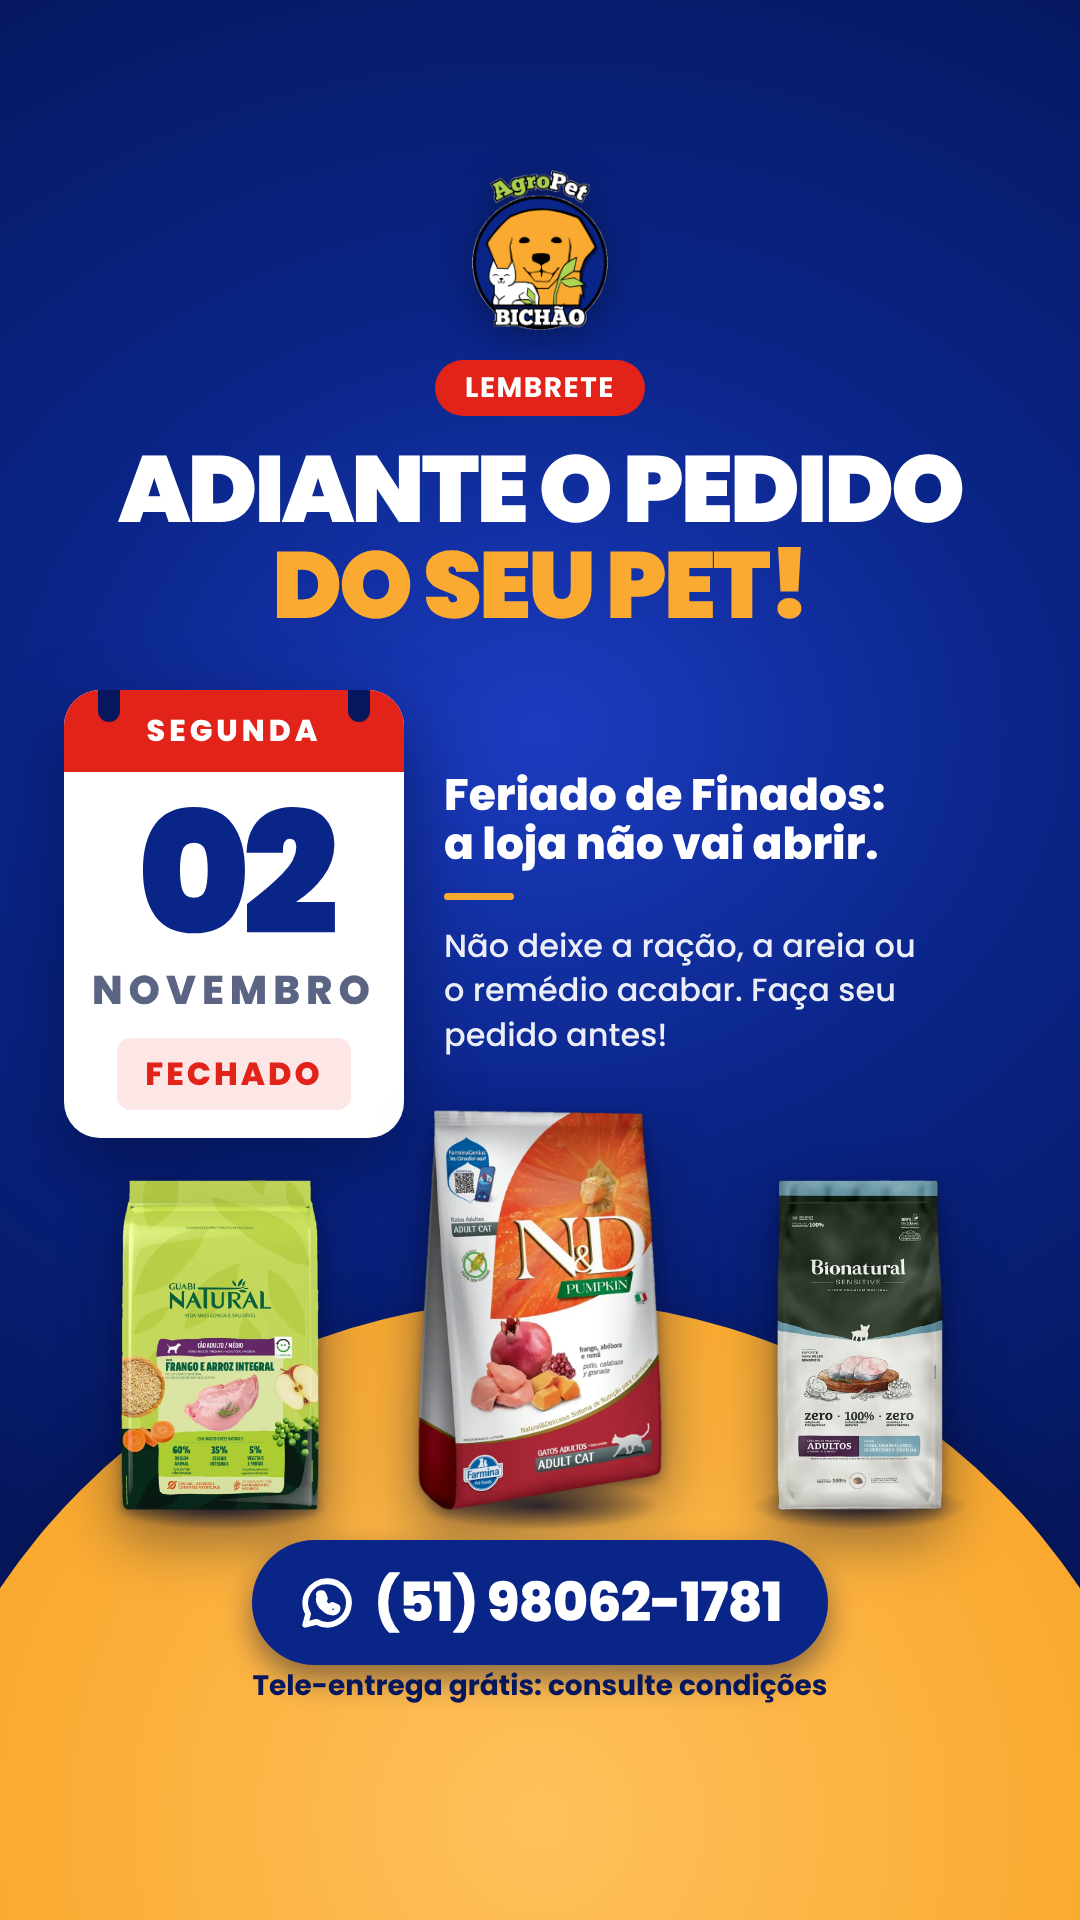
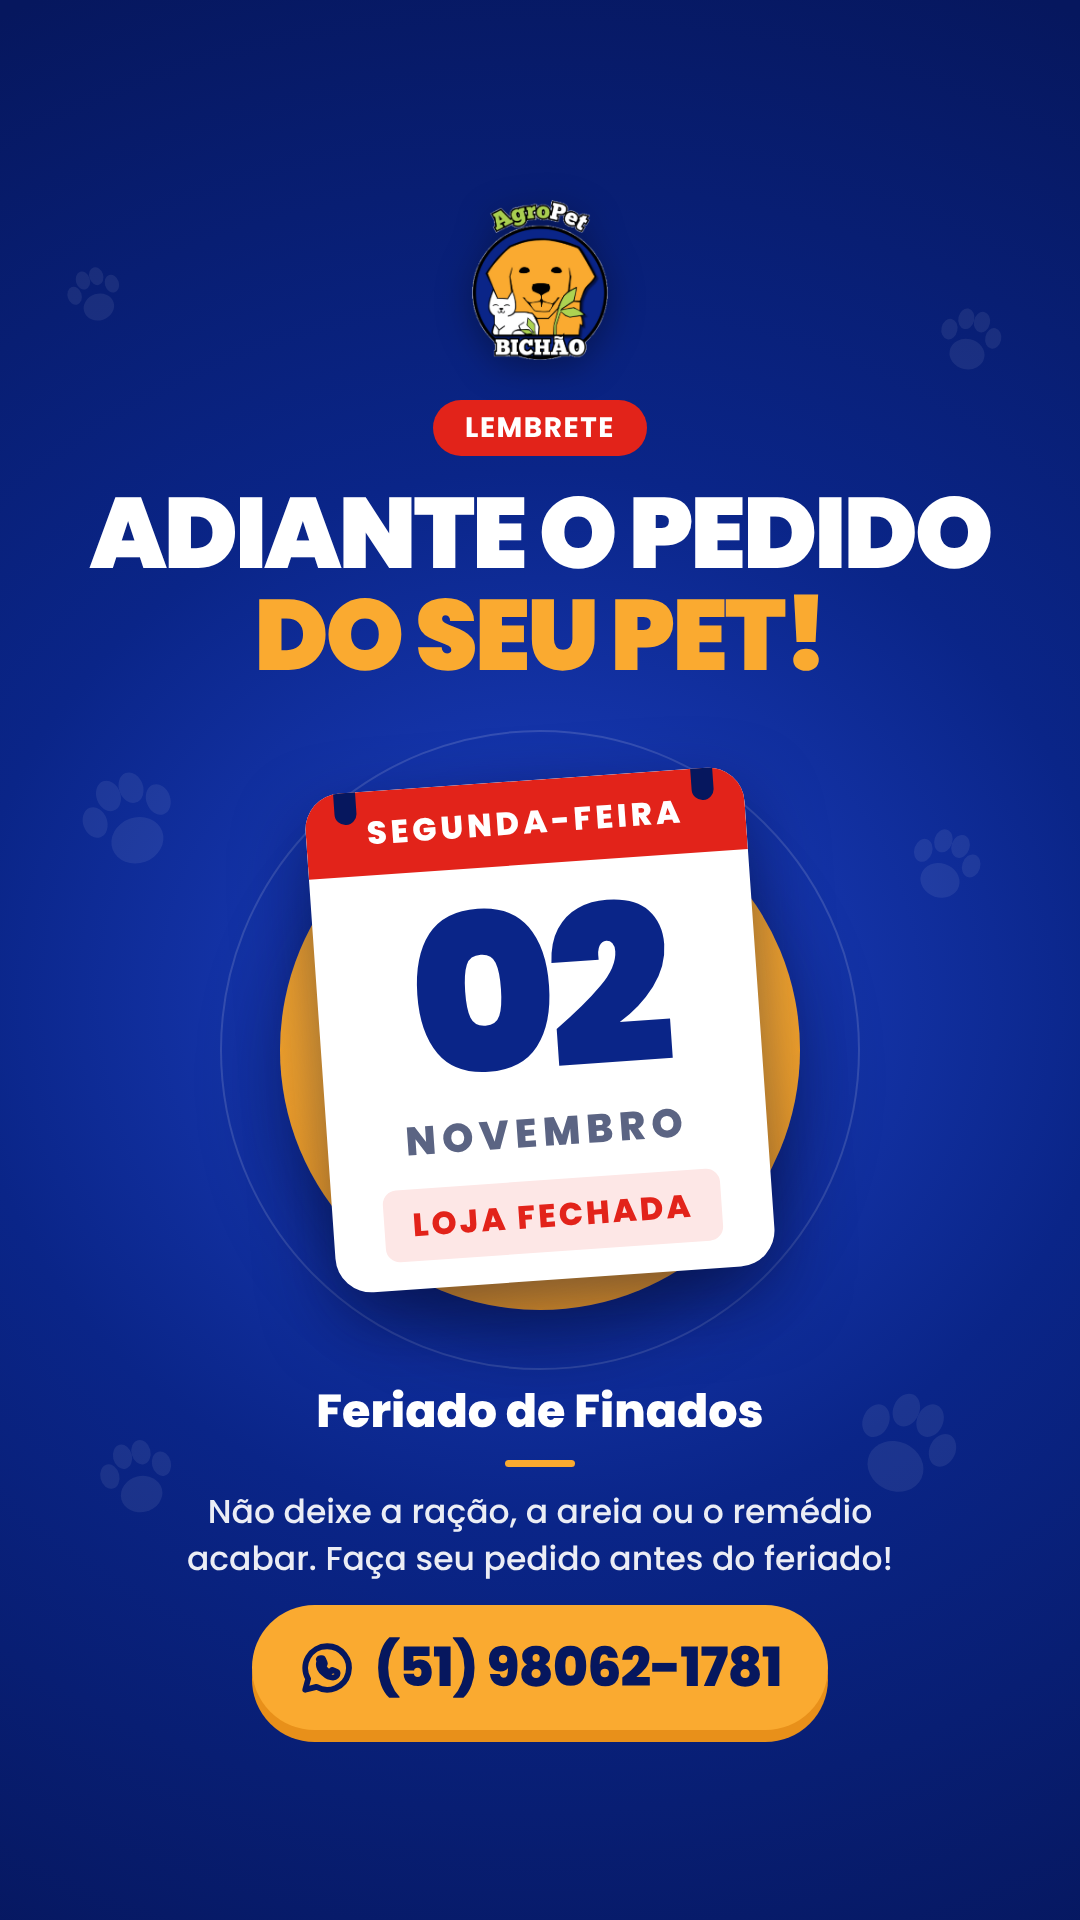
Story do feriado sem produtos, calendário em destaque
Claude-Session: https://claude.ai/code/session_01Gs9A9MNex2dmEc6dmLnRAu

diff --git a/agropet-bichao/tools/gerar_story_feriado.py b/agropet-bichao/tools/gerar_story_feriado.py
@@ -16,58 +16,62 @@ OUT = ROOT / "stories" / "feriado-02-11.png"
 
 CSS = base.CSS.replace("height:1350px", "height:1920px") + """
 .cal{background:#fff;border-radius:36px;overflow:hidden;box-shadow:0 30px 70px rgba(3,10,50,.5);text-align:center;color:var(--azul)}
-.cal .topo{background:var(--vermelho);color:#fff;font-weight:800;font-size:30px;letter-spacing:4px;text-transform:uppercase;padding:18px 0;position:relative}
+.cal .topo{background:var(--vermelho);color:#fff;font-weight:800;font-size:32px;letter-spacing:4px;text-transform:uppercase;padding:18px 0;position:relative}
 .cal .topo::before,.cal .topo::after{content:"";position:absolute;top:-14px;width:22px;height:46px;border-radius:11px;background:var(--azul-esc)}
-.cal .topo::before{left:34px}.cal .topo::after{right:34px}
-.cal .dia{font-weight:900;font-size:170px;line-height:1;letter-spacing:-8px;margin-top:18px}
+.cal .topo::before{left:30px}.cal .topo::after{right:30px}
+.cal .dia{font-weight:900;font-size:220px;line-height:1;letter-spacing:-8px;margin-top:18px}
 .cal .mes{font-weight:800;font-size:40px;letter-spacing:6px;text-transform:uppercase;color:var(--cinza)}
 .cal .fechado{display:inline-block;margin:18px 0 28px;background:#FDE7E6;color:var(--vermelho);font-weight:800;font-size:32px;
   letter-spacing:3px;text-transform:uppercase;padding:12px 28px;border-radius:14px}
 """
 
 
+PATA = ('<svg viewBox="0 0 100 100" fill="currentColor"><ellipse cx="50" cy="68" rx="22" ry="19"/>'
+        '<ellipse cx="22" cy="42" rx="10" ry="13"/><ellipse cx="40" cy="25" rx="10" ry="13"/>'
+        '<ellipse cx="60" cy="25" rx="10" ry="13"/><ellipse cx="78" cy="42" rx="10" ry="13"/></svg>')
+
+
+def patas():
+    pos = [(70, 760, 120, -20), (900, 820, 90, 18), (840, 1380, 130, 24), (90, 1430, 95, -14), (930, 300, 80, 12), (60, 260, 70, -18)]
+    return "".join(f'<div class="abs" style="left:{x}px;top:{y}px;width:{w}px;height:{w}px;transform:rotate({r}deg);'
+                   f'color:#fff;opacity:.07">{PATA}</div>' for x, y, w, r in pos)
+
+
 def story():
-    prods = [("guabi-natural-caes-medias", -320, 300, 330), ("nd-pumpkin-gatos", 0, 330, 400),
-             ("bionatural-sensitive-peixe", 320, 300, 330)]
-    vitrine = "".join(
-        f'<div class="prod" style="top:{1510 - h}px;margin-left:{dx}px;width:{w}px;height:{h}px;z-index:{2 if dx == 0 else 1}">'
-        f'<img src="{base.foto(s)}" alt=""></div>'
-        for s, dx, w, h in prods
-    )
     return f"""<!doctype html><html lang="pt-BR"><head><meta charset="utf-8"><style>{CSS}</style></head><body>
-<div class="slide" style="height:1920px">
-  <div class="abs" style="left:0;right:0;top:170px;display:flex;justify-content:center">
+<div class="slide" style="height:1920px;background:radial-gradient(1200px 1100px at 50% 52%,#1E42C8 0%,var(--azul) 48%,var(--azul-esc) 100%)">
+  {patas()}
+  <div class="abs" style="left:0;right:0;top:200px;display:flex;justify-content:center">
     <img src="{base.LOGO}" style="height:160px;filter:drop-shadow(0 8px 18px rgba(0,0,0,.35))" alt="Agropet Bichão"></div>
 
-  <div class="abs" style="left:48px;right:48px;top:360px;text-align:center">
-    <span class="pill vermelho" style="font-size:28px;padding:14px 30px">Lembrete</span>
-    <div style="font-weight:900;font-size:94px;line-height:1.02;letter-spacing:-3px;margin-top:26px;text-transform:uppercase">
+  <div class="abs" style="left:48px;right:48px;top:400px;text-align:center">
+    <span class="pill vermelho" style="font-size:28px;padding:14px 32px">Lembrete</span>
+    <div style="font-weight:900;font-size:100px;line-height:1.02;letter-spacing:-3px;margin-top:26px;text-transform:uppercase">
       Adiante o pedido<br><span style="color:var(--laranja)">do seu pet!</span></div>
   </div>
 
-  <div class="abs" style="left:64px;top:690px;display:flex;gap:40px;align-items:center;right:64px">
-    <div class="cal" style="width:340px;flex:none">
-      <div class="topo">Segunda</div>
+  <div class="palco anel" style="top:730px;width:640px;height:640px"></div>
+  <div class="palco disco" style="top:790px;width:520px;height:520px"></div>
+  <div class="abs" style="left:50%;top:780px;transform:translateX(-50%) rotate(-4deg)">
+    <div class="cal" style="width:440px">
+      <div class="topo">Segunda-feira</div>
       <div class="dia">02</div>
       <div class="mes">Novembro</div>
-      <div class="fechado">Fechado</div>
-    </div>
-    <div style="flex:1">
-      <div style="font-weight:800;font-size:44px;line-height:1.12;text-wrap:balance">Feriado de Finados: a loja não vai abrir.</div>
-      <div style="width:70px;height:7px;border-radius:4px;background:var(--laranja);margin:24px 0"></div>
-      <div style="font-weight:500;font-size:32px;line-height:1.4;opacity:.92;text-wrap:pretty">Não deixe a ração, a areia ou o remédio acabar. Faça seu pedido antes!</div>
+      <div class="fechado">Loja fechada</div>
     </div>
   </div>
 
-  <div class="palco disco" style="top:1300px;width:1300px;height:1300px"></div>
-  {vitrine}
+  <div class="abs" style="left:96px;right:96px;top:1385px;text-align:center">
+    <div style="font-weight:800;font-size:46px;line-height:1.15">Feriado de Finados</div>
+    <div style="width:70px;height:7px;border-radius:4px;background:var(--laranja);margin:22px auto"></div>
+    <div style="font-weight:500;font-size:33px;line-height:1.42;opacity:.92;text-wrap:balance">
+      Não deixe a ração, a areia ou o remédio acabar. Faça seu pedido antes do feriado!</div>
+  </div>
 
-  <div class="abs" style="left:0;right:0;top:1540px;display:flex;justify-content:center;z-index:3">
-    <div style="display:flex;align-items:center;gap:18px;background:var(--azul);color:#fff;font-weight:800;font-size:54px;
-      letter-spacing:-1px;padding:22px 46px;border-radius:999px;box-shadow:0 14px 30px rgba(3,10,50,.45)">
-      {base.icon("wa", 58, "#fff", 2.4)}{base.WHATS}</div></div>
-  <div class="abs" style="left:0;right:0;top:1665px;text-align:center;z-index:3;font-weight:700;font-size:28px;color:var(--azul-esc)">
-    Tele-entrega grátis: consulte condições</div>
+  <div class="abs" style="left:0;right:0;top:1605px;display:flex;justify-content:center">
+    <div style="display:flex;align-items:center;gap:18px;background:var(--laranja);color:var(--azul-esc);font-weight:800;font-size:54px;
+      letter-spacing:-1px;padding:22px 46px;border-radius:999px;box-shadow:0 12px 0 var(--laranja-esc)">
+      {base.icon("wa", 58, "#06175E", 2.4)}{base.WHATS}</div></div>
 </div></body></html>"""
 
 
